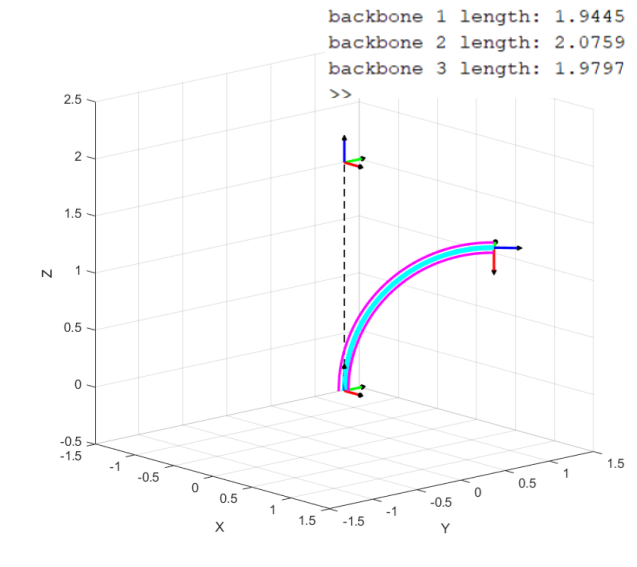
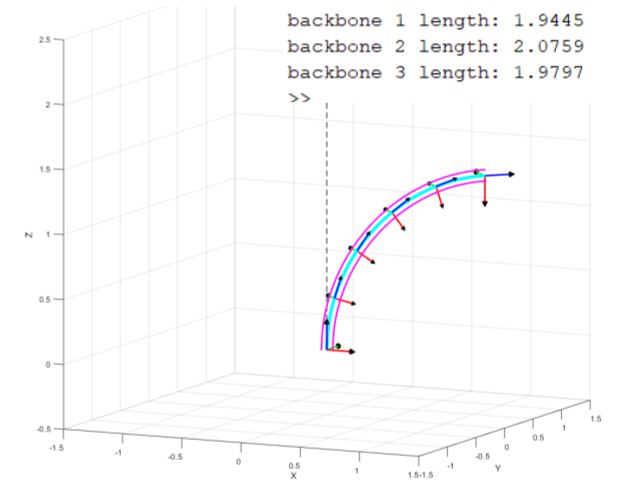
crane count i miss anshika

diff --git a/project.html b/project.html
@@ -691,19 +691,16 @@
 
         if (project.toc) {
           // ── Fix 1: inject section IDs directly into the html string ──
-          // This ensures IDs survive the outerHTML swap that follows.
           let sectionIndex = 0;
           html = html.replace(/<h[2-4]([^>]*)>/gi, (match, attrs) => {
-            if (/\bid=/.test(attrs)) return match; // already has an id, leave it
+            if (/\bid=/.test(attrs)) return match;
             return `<h2${attrs} id="section-${sectionIndex++}">`;
           });
 
-          // Set innerHTML so we can query the headings for their text content
           bodyWrapper.innerHTML = html;
           const headings = [...bodyWrapper.querySelectorAll('h2, h3, h4')];
 
           const tocItemsClean = headings.map(h => {
-            // Use only direct text nodes so icon/badge children don't appear in the TOC
             const firstText = [...h.childNodes]
               .filter(n => n.nodeType === 3)
               .map(n => n.textContent.trim())
@@ -724,24 +721,18 @@
               ${sidebarHTML}
             </div>`;
 
-          // Scroll spy + sticky TOC
           requestAnimationFrame(() => {
             const toc    = document.getElementById('projToc');
             const layout = document.getElementById('projLayout');
             const links  = document.querySelectorAll('.toc-list a');
             const navH   = parseInt(getComputedStyle(document.documentElement)
-                             .getPropertyValue('--nav-height') || '64');
+                            .getPropertyValue('--nav-height') || '64');
             const tocOffset = project.tocOffset || '5.5rem';
             const tocTop    = project.tocTop || '2rem';
 
             toc.style.setProperty('--toc-offset', tocOffset);
             toc.style.setProperty('--toc-top', tocTop);
 
-            // ── Fix 2: compute correct left position when switching to fixed ──
-            // When position:fixed, left is relative to the viewport, not the
-            // container. We derive it from the layout's current bounding rect.
-            // Capture the TOC's natural left position in viewport coords once,
-            // before any scrolling moves it. We need this for the fixed state.
             let tocNaturalLeft = toc.getBoundingClientRect().left;
 
             window.addEventListener('scroll', () => {
@@ -765,7 +756,6 @@
 
             }, { passive: true });
 
-            // Active link highlight via IntersectionObserver
             const obs = new IntersectionObserver(entries => {
               entries.forEach(e => {
                 if (e.isIntersecting) {
@@ -798,8 +788,18 @@
             initPairCaptions();
           });
         }
+
+        // ── Re-typeset MathJax now that body-*.html content is in the DOM ──
+        typesetMath();
       }
 
+      function typesetMath() {
+        if (window.MathJax && MathJax.typesetPromise) {
+          MathJax.typesetPromise().catch(err => console.error('MathJax typeset error:', err));
+        } else {
+          setTimeout(typesetMath, 100);
+        }
+      }
       /* ─── Video: autoplay on scroll into view, pause on scroll out ───────
          Called directly by injectLayout once the DOM is settled — no race.
          All <video> elements get muted + playsinline (required for autoplay),

diff --git a/body-novoprint.html b/body-novoprint.html
@@ -33,6 +33,15 @@
      <h3>Mechanical</h3>
      <p>To avoid reinventing the wheel, we chose to use an open source, 3D printable robot called <a href = 'https://arctosrobotics.com/'><strong>Arctos</strong></a>. We had ~2.5 months until EOH 2025, so it was a big challenge of sourcing parts from approved vendors, 3D printing parts, and managing the assembly process itself. The goal for the first EOH was just assembly and demonstration of concept. We planned to continue the project long-term to build a functional 3D printer for one of the Illinois Student Makerspaces. I won't get into the Arctos base design too much, as their website explains much of it in detail. </p>
 
+     <img class="img-left lb"
+     style="--w: 500px"
+     src="assets/projects/novoprint/old.jpg"
+     alt="ILL-INI"
+     onclick="lb(this)">
+     <p>Here was the original arm from 2025. I think its fun to see the different colored parts showing which components were being iterated upon and redesigned throughout the sequence pictures and videos.</p>
+     <p>Requiring just under 4 kg of filament for each final arm, we had two printers running basically 24/7, especially while prototyping.</p>
+     <div class="clear"></div>
+
      <video class="vid-right" style="--w:300px">
         <source src="assets/projects/novoprint/wow backlash.mp4" type="video/mp4">
     </video>

diff --git a/body-continuum.html b/body-continuum.html
@@ -3,7 +3,7 @@
     tex: { inlineMath: [['$', '$'], ['\\(', '\\)']] }
   };
 </script>
-<script src="https://cdn.jsdelivr.net/npm/mathjax@3/es5/tex-cml.js"></script>
+<script src="https://cdn.jsdelivr.net/npm/mathjax@3/es5/tex-chtml.js"></script>
 
 <p>I spent the summer after my junior year at Vanderbilt University's laboratory for Advanced Robotics and Mechanism Applications. Under the grad students' guidance, I had the opportunity to learn about continuum robotics and simulated their motion and kinematics in MATLAB. This project was based on lab director Dr. Nabil Simaan’s 2004 ICRA paper, “A Dexterous System for Laryngeal Surgery.” </p>
 
@@ -29,5 +29,6 @@
      src="assets/projects/continuum/static_snake.png"
      alt="static model"
      onclick="lb(this)">
-
+<p>This was the first time I ever used MATLAB, and also the first time I appreciated Linear Algebra lol. </p>
+<p>The static model was fairly trivial. Compute the actuator lengths given a desired pose (angle $\theta$ from $\hat{z}$ and $\delta$ from the XY plane), and then visualize. The intermediate coordinate frames represent the transformation to the spacer disks' reference frames.</p>
 <div class="clear"></div>

diff --git a/about.html b/about.html
@@ -394,6 +394,7 @@
         link:  "project.html?id=mitll",
         bullets: [
           "Increased multi-wafer uniformity of HZO Atomic Layer Deposition films by 88% with iterative recipe optimization",
+          "Identified an 8% ellipsometry measurement error via XRR cross-validation and generated revised optical models",
           "Refined stability and conditioning for metals E-beam Evaporation, improving Hf deposition conductivity by 49%",
           "Developed Selective Si Epitaxial Growth processes for in-house fabrication of RSD transistors and sub 90nm CMOS",
         ],

diff --git a/crane-count.js b/crane-count.js
@@ -1,3 +1,3 @@
 // crane-count.js
 // Change CRANE_COUNT here and it updates in the nav on every page.
-const CRANE_COUNT = 11013;
+const CRANE_COUNT = 11316;
